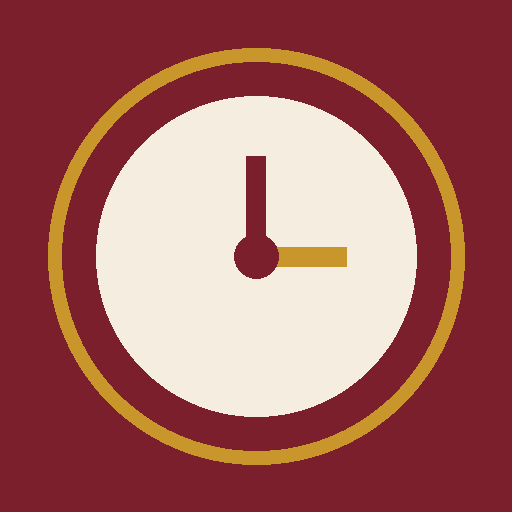
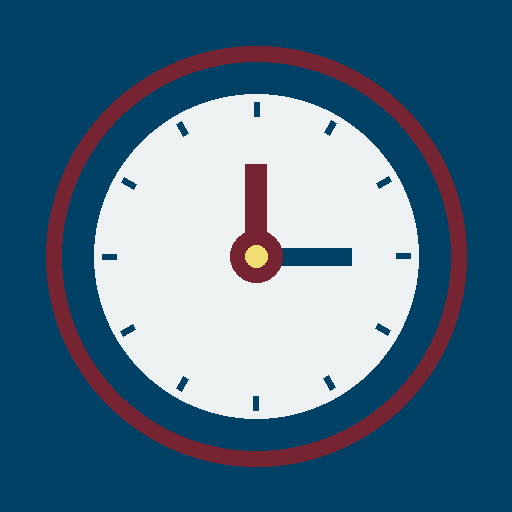
Add files via upload
Updated under min and theme

diff --git a/index.html b/index.html
@@ -5,27 +5,30 @@
 <meta name="viewport" content="width=device-width, initial-scale=1.0, user-scalable=no">
 <title>Toastmasters Meeting Timer</title>
 <link rel="manifest" href="manifest.json">
-<meta name="theme-color" content="#7a1f2b">
+<meta name="theme-color" content="#004165">
 <meta name="apple-mobile-web-app-capable" content="yes">
 <meta name="apple-mobile-web-app-status-bar-style" content="black-translucent">
 <meta name="apple-mobile-web-app-title" content="TM Timer">
 <link rel="apple-touch-icon" href="icon-192.png">
 <style>
   :root {
-    --ink: #1a1410;
-    --paper: #f4ede0;
-    --maroon: #7a1f2b;
-    --gold: #c8962a;
-    --green: #2e7d4f;
-    --amber: #d99a1f;
-    --red: #c0392b;
-    --shadow: rgba(26,20,16,0.18);
+    /* Official Toastmasters International brand palette */
+    --ink: #18242b;          /* near-Loyal-blue ink */
+    --paper: #eef1f2;        /* light cool gray ground */
+    --maroon: #772432;       /* True Maroon */
+    --blue: #004165;         /* Loyal Blue */
+    --gold: #f2df74;         /* Happy Yellow */
+    --gray: #a9b2b1;         /* Cool Gray */
+    --green: #2e7d4f;        /* functional signal */
+    --amber: #d99a1f;        /* functional signal */
+    --red: #c0392b;          /* functional signal */
+    --shadow: rgba(0,65,101,0.18);
   }
   * { margin:0; padding:0; box-sizing:border-box; -webkit-tap-highlight-color:transparent; }
   html, body { height:100%; }
   body {
     font-family:'Iowan Old Style','Palatino Linotype',Palatino,Georgia,serif;
-    background:radial-gradient(ellipse at top,#faf4e8 0%,var(--paper) 55%,#e8ddc8 100%);
+    background:radial-gradient(ellipse at top,#f7f9f9 0%,var(--paper) 55%,#dde3e3 100%);
     color:var(--ink); min-height:100%; display:flex; justify-content:center;
     padding:12px 16px 36px;
   }
@@ -34,12 +37,12 @@
   header { text-align:center; margin-bottom:10px; }
   header .crest { font-size:10px; letter-spacing:2.5px; text-transform:uppercase; color:var(--maroon); font-weight:700; }
   header h1 { font-size:21px; letter-spacing:0.5px; margin-top:1px; font-weight:700; }
-  header .rule { width:46px; height:2px; background:var(--gold); margin:6px auto 0; }
+  header .rule { width:46px; height:2px; background:var(--blue); margin:6px auto 0; }
   /* Hide the top header once inside timer/share — banner carries the info */
   body.in-app header { display:none; }
 
   .card {
-    background:#fffdf7; border:1px solid rgba(122,31,43,0.15);
+    background:#ffffff; border:1px solid rgba(0,65,101,0.15);
     border-radius:14px; box-shadow:0 8px 24px var(--shadow);
     padding:14px 14px; margin-bottom:12px;
   }
@@ -47,7 +50,7 @@
   label { display:block; font-size:13px; margin-bottom:5px; font-weight:600; }
   input[type=text], textarea, input[type=date] {
     width:100%; font-family:inherit; font-size:16px; padding:10px 12px;
-    border:1px solid #cbb98f; border-radius:8px; background:#fff; color:var(--ink); margin-bottom:12px;
+    border:1px solid var(--gray); border-radius:8px; background:#fff; color:var(--ink); margin-bottom:12px;
   }
   textarea { resize:vertical; min-height:54px; }
   input:focus, textarea:focus { outline:2px solid var(--gold); outline-offset:1px; }
@@ -58,11 +61,11 @@
   .setup-bar input { flex:1; margin-bottom:0; min-width:0; }
   .setup-bar select {
     flex:1; min-width:0; font-family:inherit; font-size:14px;
-    padding:10px 8px; border:1px solid #cbb98f; border-radius:8px;
+    padding:10px 8px; border:1px solid var(--gray); border-radius:8px;
     background:#fff; color:var(--ink);
   }
   .signal-card {
-    background:#fffdf7; border:1px solid rgba(122,31,43,0.15);
+    background:#ffffff; border:1px solid rgba(0,65,101,0.15);
     border-radius:14px; box-shadow:0 8px 24px var(--shadow);
     padding:12px 14px; margin-bottom:14px;
   }
@@ -78,11 +81,11 @@
   .stage {
     border-radius:16px; padding:24px 18px 20px; text-align:center;
     transition:background 0.4s ease, box-shadow 0.4s ease, color 0.4s ease;
-    background:#2b2620; color:#f4ede0;
+    background:var(--blue); color:#ffffff;
     box-shadow:0 10px 30px var(--shadow); margin:4px 0 16px;
   }
   .stage.green { background:var(--green); color:#fff; box-shadow:0 0 34px rgba(46,125,79,0.55); }
-  .stage.amber { background:var(--amber); color:#2b2620; box-shadow:0 0 34px rgba(217,154,31,0.55); }
+  .stage.amber { background:var(--amber); color:#18242b; box-shadow:0 0 34px rgba(217,154,31,0.55); }
   .stage.red   { background:var(--red); color:#fff; box-shadow:0 0 36px rgba(192,57,43,0.6); }
   .stage.over  { background:var(--red); color:#fff; animation:pulse 1s infinite; }
   @keyframes pulse { 50% { box-shadow:0 0 12px rgba(192,57,43,0.3); } }
@@ -97,8 +100,8 @@
   }
   .btn-primary { background:var(--maroon); color:#fff; }
   .btn-primary:active { transform:scale(0.98); }
-  .btn-gold { background:var(--gold); color:#2b2620; }
-  .btn-ghost { background:#fff; border-color:#cbb98f; color:var(--ink); }
+  .btn-gold { background:var(--gold); color:#18242b; }
+  .btn-ghost { background:#fff; border-color:var(--gray); color:var(--ink); }
   .btn-green { background:var(--green); color:#fff; }
   .btn:disabled { opacity:0.4; cursor:not-allowed; }
   .btn-wide { width:100%; margin-bottom:10px; }
@@ -110,19 +113,19 @@
   .meeting-banner .mb-club { font-size:15px; font-weight:700; }
   .meeting-banner .mb-sub { font-size:12px; opacity:0.85; margin-top:2px; }
 
-  .log-empty { font-size:13px; color:#8a7c63; text-align:center; padding:8px 0; font-style:italic; }
+  .log-empty { font-size:13px; color:#6b7a80; text-align:center; padding:8px 0; font-style:italic; }
   table { width:100%; border-collapse:collapse; font-size:14px; }
-  th { text-align:left; font-size:10px; letter-spacing:1px; text-transform:uppercase; color:var(--maroon); border-bottom:1.5px solid var(--gold); padding:6px 4px; }
-  td { padding:8px 4px; border-bottom:1px solid #e5d9bf; vertical-align:top; }
+  th { text-align:left; font-size:10px; letter-spacing:1px; text-transform:uppercase; color:var(--maroon); border-bottom:1.5px solid var(--blue); padding:6px 4px; }
+  td { padding:8px 4px; border-bottom:1px solid #d4dada; vertical-align:top; }
   td.time { font-variant-numeric:tabular-nums; font-weight:700; }
-  td .meta { font-size:11px; color:#8a7c63; }
+  td .meta { font-size:11px; color:#6b7a80; }
   .qual { font-size:11px; padding:2px 7px; border-radius:10px; font-weight:700; white-space:nowrap; }
   .qual.green { background:rgba(46,125,79,0.15); color:var(--green); }
   .qual.amber { background:rgba(217,154,31,0.2); color:#9c6f0e; }
   .qual.red { background:rgba(192,57,43,0.15); color:var(--red); }
   .qual.dq { background:rgba(120,120,120,0.15); color:#555; }
   .del { background:none; border:none; cursor:pointer; font-size:16px; color:#a94; }
-  .credit { text-align:center; font-size:11px; color:#9c8e72; margin-top:18px; }
+  .credit { text-align:center; font-size:11px; color:#6b7a80; margin-top:18px; }
   .hidden { display:none; }
   .back-link { font-size:12px; color:var(--maroon); text-decoration:underline; cursor:pointer; display:inline-block; margin-bottom:10px; }
   .share-row { display:flex; gap:10px; }
@@ -158,7 +161,7 @@
       <input type="text" id="mTimer" placeholder="Who is timing today?" autocomplete="off">
     </div>
     <button class="btn btn-primary btn-wide" id="beginBtn">Begin Meeting &rarr;</button>
-    <p style="text-align:center;font-size:12px;color:#9c8e72;">Your meeting is saved on this phone until you finish it.</p>
+    <p style="text-align:center;font-size:12px;color:#6b7a80;">Your meeting is saved on this phone until you finish it.</p>
   </div>
 
   <!-- ============ SCREEN 2: TIMER ============ -->
@@ -209,7 +212,7 @@
     <span class="back-link" id="backToTimer">&larr; Back to timer</span>
     <div class="card">
       <h2>Timer's Report</h2>
-      <div id="reportPreview" style="font-size:13px;white-space:pre-wrap;line-height:1.5;background:#faf4e8;border-radius:8px;padding:12px;border:1px solid #e5d9bf;"></div>
+      <div id="reportPreview" style="font-size:13px;white-space:pre-wrap;line-height:1.5;background:#f0f3f3;border-radius:8px;padding:12px;border:1px solid #d4dada;"></div>
     </div>
     <div class="share-row">
       <button class="btn btn-green" id="waBtn">WhatsApp</button>
@@ -408,10 +411,10 @@
     refreshSpeakerOnStage();
   }
   function qualify(sec, sig){
-    if(sec > sig.r + 30) return { cls:'dq', txt:'Disqualified' };
+    if(sec > sig.r + 30) return { cls:'dq', txt:'Disqualified (over)' };
     if(sec >= sig.r) return { cls:'red', txt:'At/over max' };
     if(sec >= sig.g) return { cls:'green', txt:'Qualifying' };
-    return { cls:'amber', txt:'Under min' };
+    return { cls:'dq', txt:'Disqualified (under)' };
   }
 
   function logSpeaker(){

diff --git a/service-worker.js b/service-worker.js
@@ -1,5 +1,5 @@
 // Toastmasters Timer — service worker (offline support)
-const CACHE = 'tm-timer-v7';
+const CACHE = 'tm-timer-v8';
 const ASSETS = [
   './',
   './index.html',
